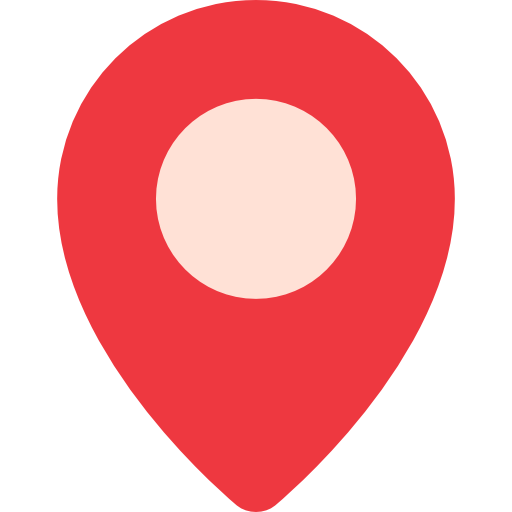
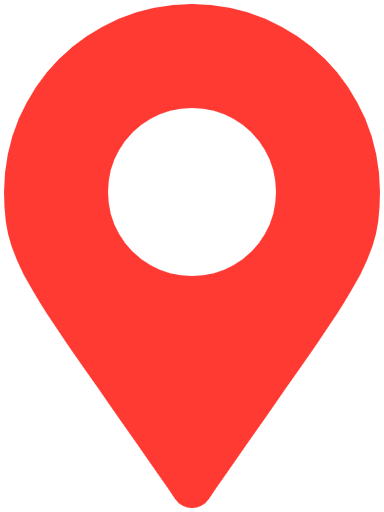
updated

diff --git a/public/js/custom.js b/public/js/custom.js
@@ -47,7 +47,7 @@ app.controller('AppCtrl',function($scope,$http){
                 return L.marker(latlng, {
                     icon: L.icon({
                         iconUrl: feature.properties.icon,
-                        iconSize: [30, 30],
+                        iconSize: [30, 40],
                         iconAnchor: [10, 15],
                     })
                 });

diff --git a/app/Http/Controllers/WarningsController.php b/app/Http/Controllers/WarningsController.php
@@ -19,44 +19,44 @@ class WarningsController extends Controller
             $advices[]='Casual';
         }
         if(count($advices) > 0){
-            $casesTable = $casesTable->whereIn('advice',$advices);
+            $casesTable = $casesTable->whereIn('data_advice',$advices);
         }
         if($r->input('time_start_hour') && is_numeric($r->input('time_start_hour'))){
-            $casesTable = $casesTable->whereRaw('date_format(start_hour,"%H")>='.$r->input('time_start_hour'));
+            $casesTable = $casesTable->whereRaw('date_format(data_timestart,"%H")>='.$r->input('time_start_hour'));
         }
         if($r->input('time_finish_hour') && is_numeric($r->input('time_finish_hour'))){
-            $casesTable = $casesTable->whereRaw('date_format(finish_hour,"%H")<='.$r->input('time_finish_hour'));
+            $casesTable = $casesTable->whereRaw('date_format(data_timeend,"%H")<='.$r->input('time_finish_hour'));
         }
         if($r->input('suburb')){
-            $casesTable = $casesTable->where('suburb',$r->input('suburb'));
+            $casesTable = $casesTable->where('data_suburb',$r->input('suburb'));
         }
         if($r->input('date')){
-            $casesTable = $casesTable->where('date',$r->input('date'))->orderBy('date','desc');
+            $casesTable = $casesTable->where('data_date',$r->input('date'))->orderBy('data_date','desc');
         }
-        if($r->input('lgs')){
-            $casesTable = $casesTable->where('lgs',$r->input('lgs'));
+        if($r->input('data_lgas')){
+            $casesTable = $casesTable->where('data_lgas',$r->input('lgs'));
         }
       
-        $defaultCase=$casesTable->clone()->first() ? $casesTable->clone()->first() :(Object)['lat'=>'','lng'=>''];
+        $defaultCase=$casesTable->clone()->first() ? $casesTable->clone()->first() :(Object)['data_latitude'=>'','data_longitude'=>''];
         $features = $casesTable->get()->map(function($c) use ($defaultCase){
             return [
                 'type'=>'Feature',
                 'properties'=>[
-                    'id'=>$c->id,
-                    'lgas'=>$c->lgs,
-                    'advise'=>$c->advice,
-                    'suburb'=>$c->suburb,
-                    'address'=>$c->address,
-                    'date'=>$c->datetext,
-                    'time'=>$c->timetext,
-                    'start_hour'=>$c->start_hour,
-                    'start_hour'=>$c->finish_hour,
+                    'id'=>$c->data_id,
+                    'lgas'=>$c->lags,
+                    'advise'=>$c->data_advice,
+                    'suburb'=>$c->data_suburb,
+                    'address'=>$c->data_address,
+                    'date'=>$c->data_datetext,
+                    'time'=>$c->data_timetext,
+                    'start_hour'=>$c->data_timestart,
+                    'start_hour'=>$c->data_timeend,
                     'isVisible'=>true,
-                    'icon'=>$c->advice == 'Close' ? '/img/red_pointer.png':'/img/yellow_pointer.png',
+                    'icon'=>$c->data_advice == 'Close' ? '/img/red_pointer.png':'/img/yellow_pointer.png',
                 ],
                 'geometry'=>[
                     'type'=>'Point',
-                    'coordinates'=>[  (Double) $c->lng ,(Double) $c->lat ]
+                    'coordinates'=>[   (Double) $c->data_longitude ,(Double) $c->data_latitude ]
                 ]
             ];
         });
@@ -64,7 +64,7 @@ class WarningsController extends Controller
         return [
             'type'=>'FeatureCollection',
             'name'=>'point',
-            'crs'=>['type'=>'name','properties'=>['name'=>'urn:ogc:def:crs:OGC:1.3:CRS84','lat'=>(Double)$defaultCase->lat,'lng'=>(Double) $defaultCase->lng]],
+            'crs'=>['type'=>'name','properties'=>['name'=>'urn:ogc:def:crs:OGC:1.3:CRS84','lat'=>(Double)$defaultCase->data_latitude,'lng'=>(Double) $defaultCase->data_longitude]],
             'features'=>$features
         ];
     }
@@ -74,29 +74,29 @@ class WarningsController extends Controller
         $fakeExit          = \Carbon\Carbon::now()->addMinutes(rand(20,60));
 
         $w                  = new Warning;
-        $w->address         = $r->input('address');
-        $w->suburb          = $r->input('suburb');
-        $w->lat             = $r->input('lat');
-        $w->lng             = $r->input('lng');
-        $w->advice          = $r->input('advice');
-        $w->datetext        = $fakeEntry->format('l d F Y');
+        $w->data_address         = $r->input('address');
+        $w->data_suburb          = $r->input('suburb');
+        $w->data_latitude        = $r->input('lat');
+        $w->data_longitude       = $r->input('lng');
+        $w->data_advice          = $r->input('advice');
+        $w->data_datetext        = $fakeEntry->format('l d F Y');
      
-        $w->timetext        = $fakeEntry->format('g:i A')."-".$fakeExit->format('g:i A');
-        $w->start_hour      = $fakeEntry->format('H');
-        $w->finish_hour     = $fakeExit->format('H');
-
+        $w->data_timetext        = $fakeEntry->format('g:i A')."-".$fakeExit->format('g:i A');
+        $w->data_timestart       = $fakeEntry->format('H');
+        $w->data_timeend         = $fakeExit->format('H');
+        
         $w->save();
         return $w;
     }
   
 
     public function getSuburbs(){
-        return \DB::table('warnings')->selectRaw('suburb,count(id) as total')->orderBy('suburb')->groupBy('suburb')->get()->map(function($m){ return ['total'=>$m->total,'suburb'=>$m->suburb];});
+        return \DB::table('dataqld')->selectRaw('data_suburb,count(data_id) as total')->orderBy('data_suburb')->groupBy('data_suburb')->get()->map(function($m){ return ['total'=>$m->total,'suburb'=>$m->data_suburb];});
     }
     public function getLgs(){
-        return \DB::table('warnings')->selectRaw('lgs,count(id) as total')->orderBy('lgs')->groupBy('lgs')->get()->map(function($m){ return ['total'=>$m->total,'name'=>$m->lgs];});
+        return \DB::table('dataqld')->selectRaw('data_lgas,count(data_id) as total')->orderBy('data_lgas')->groupBy('data_lgas')->get()->map(function($m){ return ['total'=>$m->total,'name'=>$m->data_lgas];});
     }
     public function getDays(){
-        return \DB::table('warnings')->selectRaw('date,count(id) as total')->orderBy('lgs')->groupBy('date')->get()->map(function($m){ return ['total'=>$m->total,'name'=>$m->date];});
+        return \DB::table('dataqld')->selectRaw('data_date,count(data_id) as total')->orderBy('data_date')->groupBy('data_date')->get()->map(function($m){ return ['total'=>$m->total,'name'=>$m->data_date];});
     }
 }

diff --git a/app/Models/Warning.php b/app/Models/Warning.php
@@ -6,6 +6,7 @@ use Illuminate\Database\Eloquent\Factories\HasFactory;
 use Illuminate\Database\Eloquent\Model;
 
 class Warning extends Model{
+    protected $table='dataqld';
     public static function generateFakeGls(){
         $lgs=['QLD142','QLD143','QLD144','QLD145','QLD146','QLD147','QLD148','QLD149','QLD145'];
         $warnings = Warning::get();
